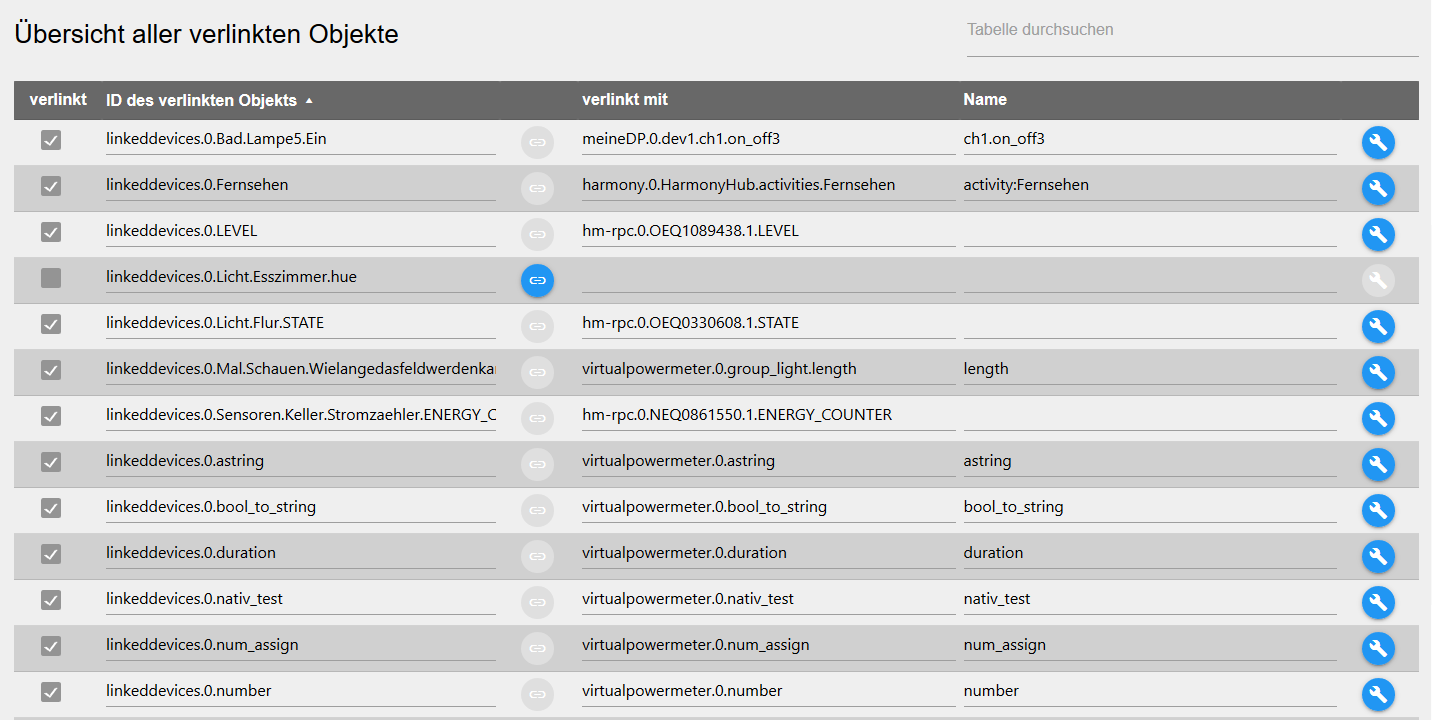
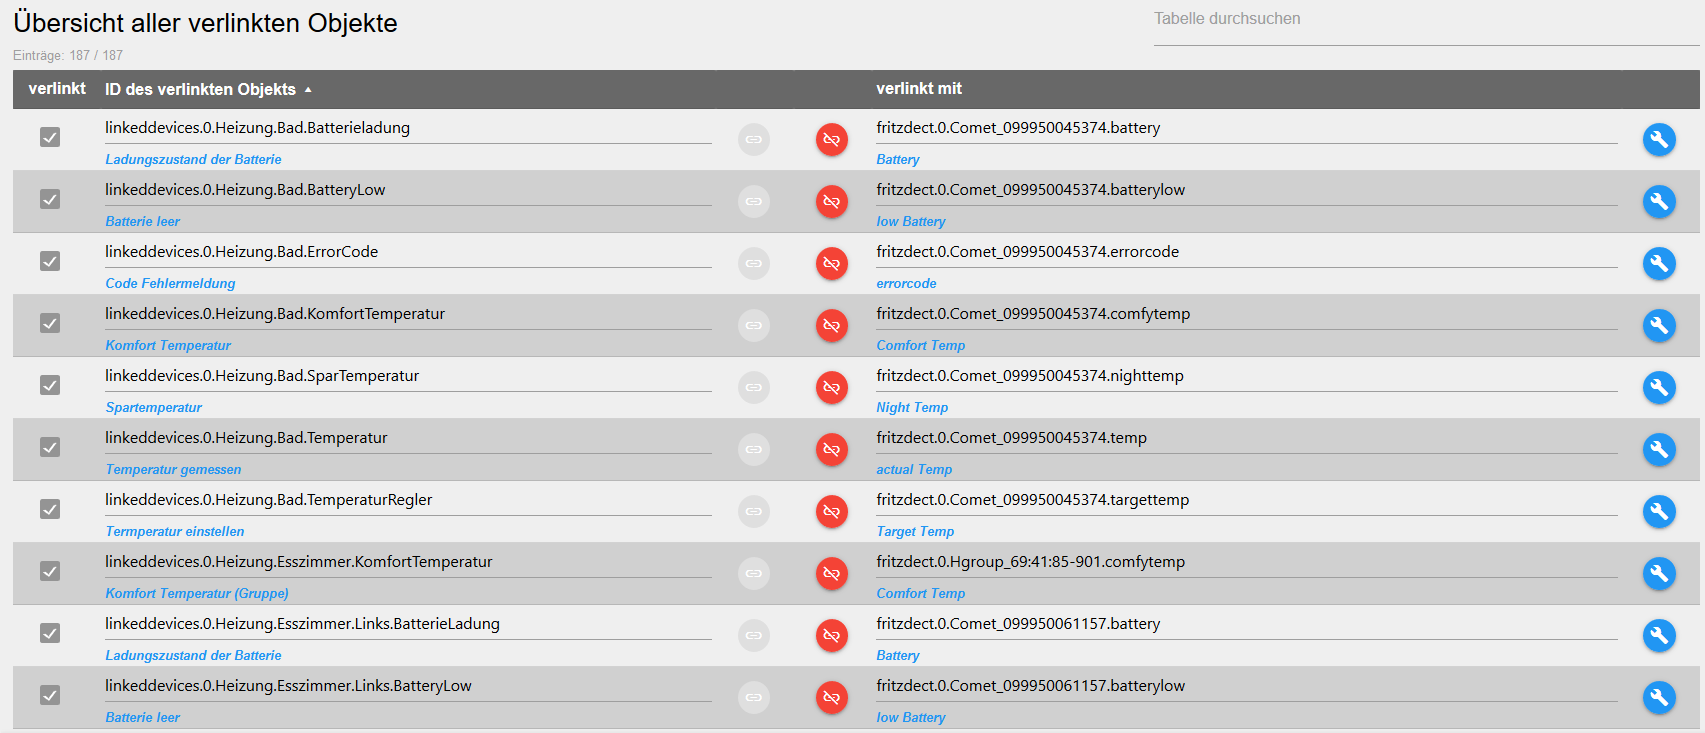
Doc updated

diff --git a/doc/de/README.md b/doc/de/README.md
@@ -31,6 +31,8 @@ In der Adapterkonfiguration kann ein globales Skript erzeugt werden, dass für a
 |---|---|
 |Skriptname| Name unter dem das erzeugte Skript abgespeichert wird |
 |Name der Variable| Name der Variable über die alle verlinkten Objekte in einem Skript angesteuert werden kann |
+|alle Objekte der Instanz mit einbeziehen| Es werden auch Variablen für andere Objekte die sich in der Instanz befinden generiert |
+|setState für 'readonly' Objekte generieren| setState Funktionf für readonly Objekte erzeugen |
 
 Das ganze sieht im Skript Editor dann so aus:
 
@@ -164,6 +166,14 @@ Zur Info beim Typ 'Datum / Uhrzeit' ist das verlinkte Objekt vom Typ 'Zeichenket
 <br><br>
 
 ## Experteneinstellungen für verlinktes Objekt vom Typ 'Zeichenkette (readonly)'
+
+### Zeichenkette (readonly): Konvertiere in Typ 'Dauer'
+![Strukture](media/expert_settings_string_convert_to_duration.png)
+
+### Zeichenkette (readonly): Konvertiere in Typ 'Datum / Uhrzeit'
+![Strukture](media/expert_settings_string_convert_to_datetime.png)
+
+
 
 ## Experteneinstellungen für verlinktes Objekt vom Typ 'Zeichenkette'
 ![Strukture](media/expert_settings_string.png)

diff --git a/README.md b/README.md
@@ -36,6 +36,16 @@ This adapter is inspired from [virtual devices script by Pman](https://forum.iob
 
 ## Changelog
 
+### X.X.X
+* (Scrounger) custom dialog: suggestion dropdown list added to input fields
+* (Scrounger) adapter configuration: button to remove links added
+* (Scrounger) expert settings: Converter string (readonly) to duration, date and / or datetime added
+* (Scrounger) adapter configuration: layout revised
+* (Scrounger) expert settings number: allow negative values for min / max
+* (Scrounger) adapter configuration: auto generate globale script - optional create setState funtion for readonly objects
+* (Scrounger) adapter configuration: auto generate globale script - now optional recognize also manual created objects
+* (Scrounger) bug fixes
+
 ### 0.4.1
 * (Scrounger) Bug fix: auto generate globale script for [Javascript Script Engine](https://github.com/iobroker/ioBroker.javascript/blob/master/README.md) with variables for all linked Object
 
